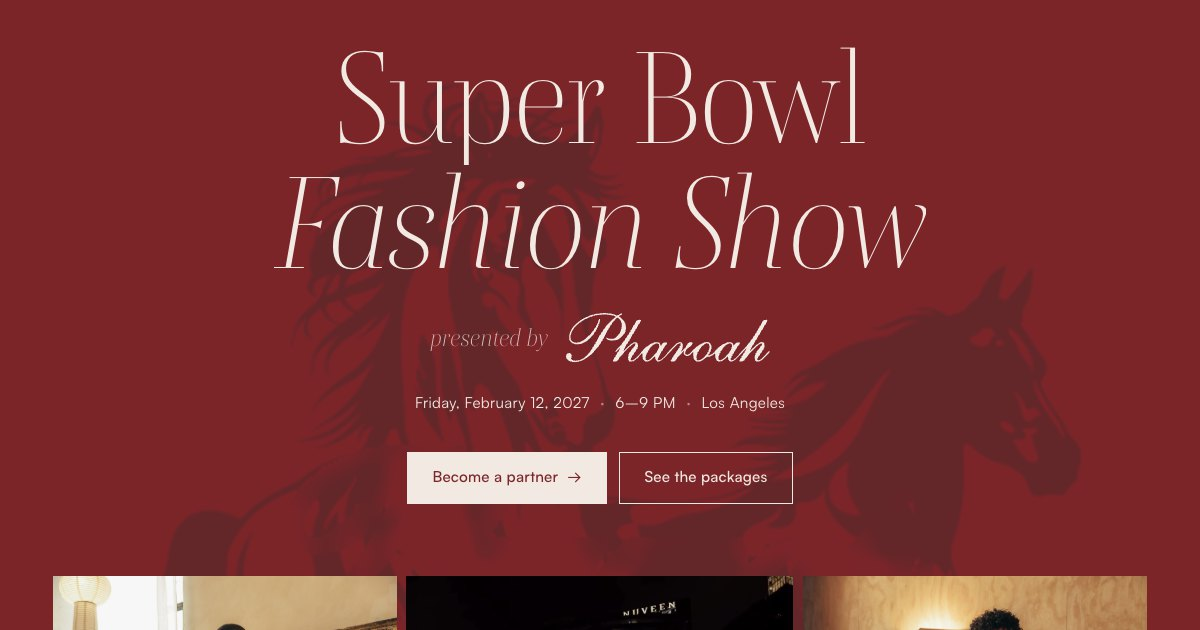
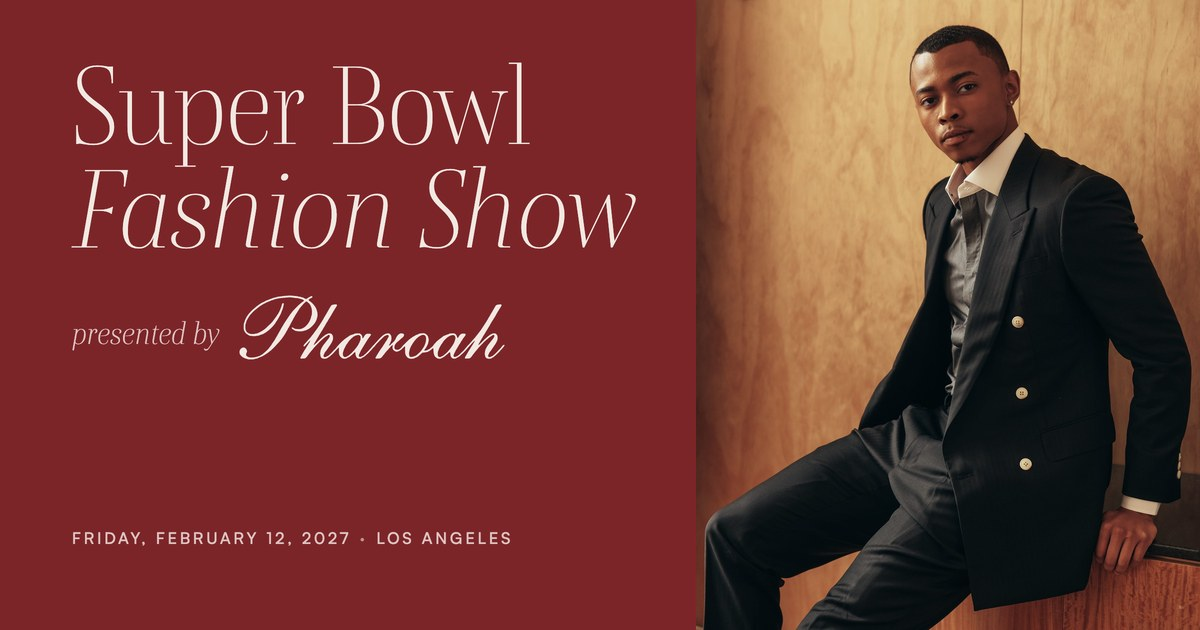
Share image v2: oxblood field, h1 + Pharoah script, seated double-breasted look; og.jpg?v=2 + alt

diff --git a/index.html b/index.html
@@ -11,27 +11,29 @@
 <meta name="robots" content="noindex, nofollow">
 <link rel="canonical" href="https://taylormadecreative.github.io/pharoah-fashion-show/">
 <meta property="og:url" content="https://taylormadecreative.github.io/pharoah-fashion-show/">
-<meta property="og:image" content="https://taylormadecreative.github.io/pharoah-fashion-show/assets/img/og.jpg">
+<meta property="og:image" content="https://taylormadecreative.github.io/pharoah-fashion-show/assets/img/og.jpg?v=2">
 <meta property="og:image:width" content="1200">
 <meta property="og:image:height" content="630">
+<meta property="og:image:alt" content="Super Bowl Fashion Show presented by Pharoah, Friday, February 12, 2027, Los Angeles, beside a model seated in a black double-breasted Pharoah jacket with ivory buttons.">
 <meta name="twitter:card" content="summary_large_image">
-<meta name="twitter:image" content="https://taylormadecreative.github.io/pharoah-fashion-show/assets/img/og.jpg">
+<meta name="twitter:image" content="https://taylormadecreative.github.io/pharoah-fashion-show/assets/img/og.jpg?v=2">
+<meta name="twitter:image:alt" content="Super Bowl Fashion Show presented by Pharoah, Friday, February 12, 2027, Los Angeles, beside a model seated in a black double-breasted Pharoah jacket with ivory buttons.">
 <meta name="theme-color" content="#7C2529">
-<link rel="icon" href="assets/img/favicon.svg?v=202610271533" type="image/svg+xml">
-<link rel="preload" href="assets/fonts/boska-300.woff2?v=202610271533" as="font" type="font/woff2" crossorigin>
-<link rel="preload" href="assets/fonts/satoshi-400.woff2?v=202610271533" as="font" type="font/woff2" crossorigin>
+<link rel="icon" href="assets/img/favicon.svg?v=202610271551" type="image/svg+xml">
+<link rel="preload" href="assets/fonts/boska-300.woff2?v=202610271551" as="font" type="font/woff2" crossorigin>
+<link rel="preload" href="assets/fonts/satoshi-400.woff2?v=202610271551" as="font" type="font/woff2" crossorigin>
 <script>
   document.documentElement.classList.add('js');
   try { if (sessionStorage.getItem('pharoah-intro')) document.documentElement.classList.add('seen'); } catch (e) {}
 </script>
 <style>
-@font-face{font-family:Boska;src:url(assets/fonts/boska-300.woff2?v=202610271533) format('woff2');font-weight:300;font-style:normal;font-display:swap}
-@font-face{font-family:Boska;src:url(assets/fonts/boska-300i.woff2?v=202610271533) format('woff2');font-weight:300;font-style:italic;font-display:swap}
-@font-face{font-family:Boska;src:url(assets/fonts/boska-400.woff2?v=202610271533) format('woff2');font-weight:400;font-style:normal;font-display:swap}
-@font-face{font-family:Boska;src:url(assets/fonts/boska-400i.woff2?v=202610271533) format('woff2');font-weight:400;font-style:italic;font-display:swap}
-@font-face{font-family:Satoshi;src:url(assets/fonts/satoshi-400.woff2?v=202610271533) format('woff2');font-weight:400;font-style:normal;font-display:swap}
-@font-face{font-family:Satoshi;src:url(assets/fonts/satoshi-500.woff2?v=202610271533) format('woff2');font-weight:500;font-style:normal;font-display:swap}
-@font-face{font-family:Satoshi;src:url(assets/fonts/satoshi-700.woff2?v=202610271533) format('woff2');font-weight:700;font-style:normal;font-display:swap}
+@font-face{font-family:Boska;src:url(assets/fonts/boska-300.woff2?v=202610271551) format('woff2');font-weight:300;font-style:normal;font-display:swap}
+@font-face{font-family:Boska;src:url(assets/fonts/boska-300i.woff2?v=202610271551) format('woff2');font-weight:300;font-style:italic;font-display:swap}
+@font-face{font-family:Boska;src:url(assets/fonts/boska-400.woff2?v=202610271551) format('woff2');font-weight:400;font-style:normal;font-display:swap}
+@font-face{font-family:Boska;src:url(assets/fonts/boska-400i.woff2?v=202610271551) format('woff2');font-weight:400;font-style:italic;font-display:swap}
+@font-face{font-family:Satoshi;src:url(assets/fonts/satoshi-400.woff2?v=202610271551) format('woff2');font-weight:400;font-style:normal;font-display:swap}
+@font-face{font-family:Satoshi;src:url(assets/fonts/satoshi-500.woff2?v=202610271551) format('woff2');font-weight:500;font-style:normal;font-display:swap}
+@font-face{font-family:Satoshi;src:url(assets/fonts/satoshi-700.woff2?v=202610271551) format('woff2');font-weight:700;font-style:normal;font-display:swap}
 
 :root{
   /* Pharoah's oxblood, sampled from their stallion logo; stallions.webp is baked on it. Bone is baked into look-0*.jpg. */
@@ -544,7 +546,7 @@ html.all-in .lockup .script{clip-path:none!important;transition:none!important}
 </header>
 
 <div class="menu" id="menu" role="dialog" aria-modal="true" aria-label="Menu" aria-hidden="true">
-  <img class="menu__stallions" src="assets/img/stallions.webp?v=202610271533" width="1580" height="1560" alt="" loading="lazy">
+  <img class="menu__stallions" src="assets/img/stallions.webp?v=202610271551" width="1580" height="1560" alt="" loading="lazy">
   <div class="wrap menu__in">
     <ol class="menu__links">
       <li><a href="#night" style="--i:0"><span class="n">01</span>The Night</a></li>
@@ -565,7 +567,7 @@ html.all-in .lockup .script{clip-path:none!important;transition:none!important}
 
 <!-- Attention -->
 <section class="hero" id="top" aria-labelledby="hero-h">
-  <img class="hero__stallions" src="assets/img/stallions.webp?v=202610271533" width="1580" height="1560" alt="" aria-hidden="true" fetchpriority="high">
+  <img class="hero__stallions" src="assets/img/stallions.webp?v=202610271551" width="1580" height="1560" alt="" aria-hidden="true" fetchpriority="high">
   <div class="wrap hero__in">
     <h1 class="hero__title" id="hero-h"><span class="line"><span style="--i:0">Super Bowl</span></span><span class="line"><span style="--i:1"><em>Fashion Show</em></span></span></h1>
     <p class="hero__by rv" style="--i:4"><span>presented by</span><svg class="script" role="img" aria-label="Pharoah"><use href="#pharoah-script"/></svg></p>
@@ -578,15 +580,15 @@ html.all-in .lockup .script{clip-path:none!important;transition:none!important}
   <div class="reel-stage">
   <div class="wrap reel-wrap">
     <div class="reel" id="reel">
-      <figure class="r-a"><img loading="lazy" src="assets/img/cover-teal-mirror.jpg?v=202610271533" width="1333" height="2000" alt="A Pharoah model in a teal double-breasted suit leans on a stool beside a gilded mirror."></figure>
+      <figure class="r-a"><img loading="lazy" src="assets/img/cover-teal-mirror.jpg?v=202610271551" width="1333" height="2000" alt="A Pharoah model in a teal double-breasted suit leans on a stool beside a gilded mirror."></figure>
       <figure class="r-b">
-        <video id="reel-video" src="assets/video/reel-dusk.mp4?v=202610271533" poster="assets/video/reel-dusk-poster.jpg?v=202610271533" muted loop playsinline preload="none" aria-label="Pharoah's script over the Manhattan skyline at dusk, the Empire State Building lit gold."></video>
+        <video id="reel-video" src="assets/video/reel-dusk.mp4?v=202610271551" poster="assets/video/reel-dusk-poster.jpg?v=202610271551" muted loop playsinline preload="none" aria-label="Pharoah's script over the Manhattan skyline at dusk, the Empire State Building lit gold."></video>
         <button class="reel__toggle" type="button" aria-pressed="false" aria-label="Pause the film">
           <svg class="i-pause" viewBox="0 0 14 14" aria-hidden="true"><rect x="2" y="1" width="3.5" height="12"/><rect x="8.5" y="1" width="3.5" height="12"/></svg>
           <svg class="i-play" viewBox="0 0 14 14" aria-hidden="true"><path d="M3 1l10 6-10 6z"/></svg>
         </button>
       </figure>
-      <figure class="r-c"><img loading="lazy" src="assets/img/night-navy-pinstripe.jpg?v=202610271533" width="1333" height="2000" alt="A model in a navy chalk-stripe double-breasted suit buttons his jacket under a brass sconce."></figure>
+      <figure class="r-c"><img loading="lazy" src="assets/img/night-navy-pinstripe.jpg?v=202610271551" width="1333" height="2000" alt="A model in a navy chalk-stripe double-breasted suit buttons his jacket under a brass sconce."></figure>
     </div>
   </div>
   </div>
@@ -610,7 +612,7 @@ html.all-in .lockup .script{clip-path:none!important;transition:none!important}
       <h2 class="h2 rv" id="night-h" style="--i:0">Two nights before kickoff, Los Angeles <em>gets dressed.</em></h2>
       <p class="lead mute rv" style="--i:1">The game is Sunday, February 14, at SoFi Stadium. On Friday night, Pharoah takes the runway with a show of New York tailoring, staged for the athletes, entertainers, creators and dealmakers who fill the city that weekend.</p>
     </div>
-    <figure class="b b-b zoom"><img src="assets/img/opp-seated-db.jpg?v=202610271533" width="1200" height="1800" loading="lazy" alt="A model in a black double-breasted suit with ivory buttons sits against burl-wood paneling."></figure>
+    <figure class="b b-b zoom"><img src="assets/img/opp-seated-db.jpg?v=202610271551" width="1200" height="1800" loading="lazy" alt="A model in a black double-breasted suit with ivory buttons sits against burl-wood paneling."></figure>
     <div class="b b-c">
       <p class="count__n" id="count-days">108</p>
       <p class="count__l">days to the runway</p>
@@ -619,7 +621,7 @@ html.all-in .lockup .script{clip-path:none!important;transition:none!important}
     <div class="b b-d">
       <p class="thesis"><span>Partners don’t just sponsor the night.</span> <span>They join the guest list.</span></p>
     </div>
-    <figure class="b b-e zoom"><img src="assets/img/kirk-gameday.jpg?v=202610271533" width="1200" height="1600" loading="lazy" alt="Pharoah Kirk at an NFL game in a long grey double-breasted overcoat." style="object-position:50% 24%"></figure>
+    <figure class="b b-e zoom"><img src="assets/img/kirk-gameday.jpg?v=202610271551" width="1200" height="1600" loading="lazy" alt="Pharoah Kirk at an NFL game in a long grey double-breasted overcoat." style="object-position:50% 24%"></figure>
   </div>
 </section>
 
@@ -628,7 +630,7 @@ html.all-in .lockup .script{clip-path:none!important;transition:none!important}
     <div class="room__pin">
       <h2 class="h2 rv" id="room-h" style="--i:0">Six worlds, <em>one runway.</em></h2>
       <p class="lead rv" style="--i:1">The show is built for the six circles that meet in Los Angeles during Super Bowl week.</p>
-      <figure class="room__photo"><img src="assets/img/room-velvet-sofa.jpg?v=202610271533" width="1333" height="2000" loading="lazy" alt="A model in a black zip jacket lounges on a green velvet sofa against burl-wood walls."></figure>
+      <figure class="room__photo"><img src="assets/img/room-velvet-sofa.jpg?v=202610271551" width="1333" height="2000" loading="lazy" alt="A model in a black zip jacket lounges on a green velvet sofa against burl-wood walls."></figure>
     </div>
     <ol class="worlds" id="worlds">
       <li><h3>The Athlete</h3><p>In town for the biggest week of the season, and dressed for every minute of it.</p></li>
@@ -647,7 +649,7 @@ html.all-in .lockup .script{clip-path:none!important;transition:none!important}
     <h2 class="h2 house__h rv" id="house-h" style="--i:0">A New York house with a <em>British silhouette.</em></h2>
     <div class="house__row">
       <div class="lockup" aria-hidden="true">
-        <img src="assets/img/stallions.webp?v=202610271533" width="1580" height="1560" alt="" loading="lazy">
+        <img src="assets/img/stallions.webp?v=202610271551" width="1580" height="1560" alt="" loading="lazy">
         <svg class="script"><use href="#pharoah-script"/></svg>
         <span class="lockup__ny">NEW YORK</span>
         <span class="lockup__est">EST. 2019</span>
@@ -656,7 +658,7 @@ html.all-in .lockup .script{clip-path:none!important;transition:none!important}
         <p>Pharoah began in 2019 with custom suits. Today the house makes ready-to-wear tailoring, luxury streetwear and accessories, inspired by classic British silhouettes, with creativity and edge at the heart of every design.</p>
         <p>Collections are released in limited runs, at exclusive events around the world. On February 12, the house brings that to Los Angeles, and your brand can stand beside it.</p>
       </div>
-      <figure class="house__photo scale"><img src="assets/img/house-brown-db.jpg?v=202610271533" width="1200" height="1800" loading="lazy" alt="A model in a brown double-breasted Pharoah suit fastens his cuff in a burl-wood room."></figure>
+      <figure class="house__photo scale"><img src="assets/img/house-brown-db.jpg?v=202610271551" width="1200" height="1800" loading="lazy" alt="A model in a brown double-breasted Pharoah suit fastens his cuff in a burl-wood room."></figure>
     </div>
   </div>
 </section>
@@ -668,11 +670,11 @@ html.all-in .lockup .script{clip-path:none!important;transition:none!important}
       <p class="lead mute rv" style="--i:1">Structured shoulders, clean lines, considered color. This is the house your brand stands beside on February 12.</p>
     </div>
     <div class="acc" id="acc">
-      <button class="acc__item" type="button" data-num="01" aria-expanded="true" data-cap="Zip jacket, pleated trouser"><img style="object-position:50% 16%" src="assets/img/look-01.jpg?v=202610271533" width="685" height="1800" loading="lazy" alt="Look one: a black zip-front jacket with pleated trousers."></button>
-      <button class="acc__item" type="button" data-num="02" aria-expanded="false" data-cap="Teal double-breasted suit, teal shirt"><img style="object-position:58% 40%" src="assets/img/cover-teal-mirror.jpg?v=202610271533" width="1333" height="2000" loading="lazy" alt="Look two: the teal double-breasted suit beside a gilded mirror."></button>
-      <button class="acc__item" type="button" data-num="03" aria-expanded="false" data-cap="Double-breasted, ivory buttons"><img style="object-position:50% 16%" src="assets/img/look-03.jpg?v=202610271533" width="770" height="1800" loading="lazy" alt="Look three: a black double-breasted suit with ivory buttons."></button>
-      <button class="acc__item" type="button" data-num="04" aria-expanded="false" data-cap="Navy chalk stripe, pink tie"><img style="object-position:50% 35%" src="assets/img/night-navy-pinstripe.jpg?v=202610271533" width="1333" height="2000" loading="lazy" alt="Look four: a navy chalk-stripe double-breasted suit with a pink tie."></button>
-      <button class="acc__item" type="button" data-num="05" aria-expanded="false" data-cap="Teal suit, jeweled brooch"><img style="object-position:50% 18%" src="assets/img/look-02.jpg?v=202610271533" width="670" height="1800" loading="lazy" alt="Look five: a teal double-breasted suit with a jeweled lapel brooch."></button>
+      <button class="acc__item" type="button" data-num="01" aria-expanded="true" data-cap="Zip jacket, pleated trouser"><img style="object-position:50% 16%" src="assets/img/look-01.jpg?v=202610271551" width="685" height="1800" loading="lazy" alt="Look one: a black zip-front jacket with pleated trousers."></button>
+      <button class="acc__item" type="button" data-num="02" aria-expanded="false" data-cap="Teal double-breasted suit, teal shirt"><img style="object-position:58% 40%" src="assets/img/cover-teal-mirror.jpg?v=202610271551" width="1333" height="2000" loading="lazy" alt="Look two: the teal double-breasted suit beside a gilded mirror."></button>
+      <button class="acc__item" type="button" data-num="03" aria-expanded="false" data-cap="Double-breasted, ivory buttons"><img style="object-position:50% 16%" src="assets/img/look-03.jpg?v=202610271551" width="770" height="1800" loading="lazy" alt="Look three: a black double-breasted suit with ivory buttons."></button>
+      <button class="acc__item" type="button" data-num="04" aria-expanded="false" data-cap="Navy chalk stripe, pink tie"><img style="object-position:50% 35%" src="assets/img/night-navy-pinstripe.jpg?v=202610271551" width="1333" height="2000" loading="lazy" alt="Look four: a navy chalk-stripe double-breasted suit with a pink tie."></button>
+      <button class="acc__item" type="button" data-num="05" aria-expanded="false" data-cap="Teal suit, jeweled brooch"><img style="object-position:50% 18%" src="assets/img/look-02.jpg?v=202610271551" width="670" height="1800" loading="lazy" alt="Look five: a teal double-breasted suit with a jeweled lapel brooch."></button>
     </div>
     <div class="acc__progress" aria-hidden="true"><span></span></div>
     <div class="acc__bar">
@@ -694,7 +696,7 @@ html.all-in .lockup .script{clip-path:none!important;transition:none!important}
           <p>He started the house to give athletes a better image in the media, building their brands one suit at a time. His first athlete client was Seth Curry. On the 2019 NFL Draft red carpet, Daniel Jones and Devin White wore Pharoah. Today he styles NFL players for game day.</p>
         </div>
         <figure class="inset">
-          <img src="assets/img/kirk-field.jpg?v=202610271533" width="608" height="760" loading="lazy" alt="Pharoah Kirk on the field before a game, in a blue chalk-stripe double-breasted suit.">
+          <img src="assets/img/kirk-field.jpg?v=202610271551" width="608" height="760" loading="lazy" alt="Pharoah Kirk on the field before a game, in a blue chalk-stripe double-breasted suit.">
           <figcaption>Field level, U.S. Bank Stadium.</figcaption>
         </figure>
       </div>
@@ -703,7 +705,7 @@ html.all-in .lockup .script{clip-path:none!important;transition:none!important}
         <cite>Pharoah Kirk, in Forbes, 2026</cite>
       </blockquote>
     </div>
-    <figure class="kirk__portrait scale"><img src="assets/img/kirk-street.jpg?v=202610271533" width="1500" height="2000" loading="lazy" alt="Pharoah Kirk in a grey chalk-stripe double-breasted suit and dark glasses, checking his phone on a city sidewalk."></figure>
+    <figure class="kirk__portrait scale"><img src="assets/img/kirk-street.jpg?v=202610271551" width="1500" height="2000" loading="lazy" alt="Pharoah Kirk in a grey chalk-stripe double-breasted suit and dark glasses, checking his phone on a city sidewalk."></figure>
   </div>
 </section>
 
@@ -725,7 +727,7 @@ html.all-in .lockup .script{clip-path:none!important;transition:none!important}
     <div class="pk__right">
     <div class="tiers" id="tiers">
       <article class="tier zoom" id="tier-1" aria-labelledby="t1">
-        <figure class="tier__img"><img src="assets/img/detail-zip.jpg?v=202610271533" width="985" height="438" loading="lazy" alt="Detail of hands closing the zip of a black jacket over a white shirt."></figure>
+        <figure class="tier__img"><img src="assets/img/detail-zip.jpg?v=202610271551" width="985" height="438" loading="lazy" alt="Detail of hands closing the zip of a black jacket over a white shirt."></figure>
         <div class="tier__body">
           <div><h3 class="tier__name" id="t1">Ready-to-Wear</h3><p class="tier__price">$5,000</p><p class="tier__role">Presence</p></div>
           <ul>
@@ -736,7 +738,7 @@ html.all-in .lockup .script{clip-path:none!important;transition:none!important}
         </div>
       </article>
       <article class="tier zoom" id="tier-2" aria-labelledby="t2">
-        <figure class="tier__img"><img src="assets/img/detail-cuff.jpg?v=202610271533" width="985" height="437" loading="lazy" alt="Detail of a hand fastening a white shirt cuff below a brown suit sleeve."></figure>
+        <figure class="tier__img"><img src="assets/img/detail-cuff.jpg?v=202610271551" width="985" height="437" loading="lazy" alt="Detail of a hand fastening a white shirt cuff below a brown suit sleeve."></figure>
         <div class="tier__body">
           <div><h3 class="tier__name" id="t2">Made-to-Measure</h3><p class="tier__price">$10,000</p><p class="tier__role">Presence and product</p></div>
           <ul>
@@ -749,7 +751,7 @@ html.all-in .lockup .script{clip-path:none!important;transition:none!important}
         </div>
       </article>
       <article class="tier zoom" id="tier-3" aria-labelledby="t3">
-        <figure class="tier__img"><img src="assets/img/detail-buttons.jpg?v=202610271533" width="930" height="413" loading="lazy" alt="Detail of ivory buttons on a black double-breasted jacket, with cuff buttons at the sleeve."></figure>
+        <figure class="tier__img"><img src="assets/img/detail-buttons.jpg?v=202610271551" width="930" height="413" loading="lazy" alt="Detail of ivory buttons on a black double-breasted jacket, with cuff buttons at the sleeve."></figure>
         <div class="tier__body">
           <div><h3 class="tier__name" id="t3">Bespoke</h3><p class="tier__price">$20,000</p><p class="tier__role">Experience</p></div>
           <ul>
@@ -762,7 +764,7 @@ html.all-in .lockup .script{clip-path:none!important;transition:none!important}
         </div>
       </article>
       <article class="tier tier--sig zoom" id="tier-4" aria-labelledby="t4">
-        <figure class="tier__img"><img src="assets/img/detail-brooch.jpg?v=202610271533" width="665" height="295" loading="lazy" alt="Detail of a jeweled brooch on the lapel of a teal suit."></figure>
+        <figure class="tier__img"><img src="assets/img/detail-brooch.jpg?v=202610271551" width="665" height="295" loading="lazy" alt="Detail of a jeweled brooch on the lapel of a teal suit."></figure>
         <div class="tier__body">
           <div><h3 class="tier__name" id="t4">Signature</h3><p class="tier__price">$50,000</p><p class="tier__role">Title partnership</p></div>
           <ul>
@@ -788,14 +790,14 @@ html.all-in .lockup .script{clip-path:none!important;transition:none!important}
       <p class="lead rv" style="--i:1">Tell us what Super Bowl week needs to do for your brand, and we’ll tailor the partnership around it.</p>
       <div class="cta__btns rv" style="--i:2">
         <a class="btn btn--bone" href="https://pharoahofficial.com/contact" target="_blank" rel="noopener">Start a partnership <span class="arr" aria-hidden="true">→</span></a>
-        <a class="btn btn--ghost-bone" href="Pharoah-Super-Bowl-Fashion-Show-Sponsorship.pdf?v=202610271533" download>Download the deck (PDF)</a>
+        <a class="btn btn--ghost-bone" href="Pharoah-Super-Bowl-Fashion-Show-Sponsorship.pdf?v=202610271551" download>Download the deck (PDF)</a>
       </div>
       <dl class="contact rv" style="--i:3">
         <div><dt>Partnerships</dt><dd>Pharoah Kirk</dd><dd><a class="lnk" href="https://pharoahofficial.com/contact" target="_blank" rel="noopener">pharoahofficial.com/contact</a></dd></div>
         <div><dt>Instagram</dt><dd><a class="lnk" href="https://www.instagram.com/pharoahofficial/" target="_blank" rel="noopener">@pharoahofficial</a></dd><dd><a class="lnk" href="https://www.instagram.com/pharoahkirk/" target="_blank" rel="noopener">@pharoahkirk</a></dd></div>
       </dl>
     </div>
-    <figure class="cta__photo scale"><img src="assets/img/kirk-velvet.jpg?v=202610271533" width="1200" height="1600" loading="lazy" alt="Pharoah Kirk in black with dark glasses, seated in a channel-tufted tan velvet chair."></figure>
+    <figure class="cta__photo scale"><img src="assets/img/kirk-velvet.jpg?v=202610271551" width="1200" height="1600" loading="lazy" alt="Pharoah Kirk in black with dark glasses, seated in a channel-tufted tan velvet chair."></figure>
   </div>
 </section>
 
@@ -809,7 +811,7 @@ html.all-in .lockup .script{clip-path:none!important;transition:none!important}
       <div class="foot__links">
         <a class="lnk" href="https://pharoahofficial.com" target="_blank" rel="noopener">pharoahofficial.com</a>
         <a class="lnk" href="https://www.instagram.com/pharoahofficial/" target="_blank" rel="noopener">Instagram</a>
-        <a class="lnk" href="Pharoah-Super-Bowl-Fashion-Show-Sponsorship.pdf?v=202610271533" download>Sponsorship deck (PDF)</a>
+        <a class="lnk" href="Pharoah-Super-Bowl-Fashion-Show-Sponsorship.pdf?v=202610271551" download>Sponsorship deck (PDF)</a>
       </div>
     </div>
     <div class="foot__base"><span>Pharoah · New York</span><span>Partnership inquiries through pharoahofficial.com/contact</span></div>
@@ -821,8 +823,8 @@ html.all-in .lockup .script{clip-path:none!important;transition:none!important}
   <a class="btn btn--bone" href="#partner">Partner with us <span class="arr" aria-hidden="true">→</span></a>
 </nav>
 
-<script src="assets/js/gsap.min.js?v=202610271533" defer></script>
-<script src="assets/js/ScrollTrigger.min.js?v=202610271533" defer></script>
+<script src="assets/js/gsap.min.js?v=202610271551" defer></script>
+<script src="assets/js/ScrollTrigger.min.js?v=202610271551" defer></script>
 <script defer>
 (function(){
   var root = document.documentElement;
